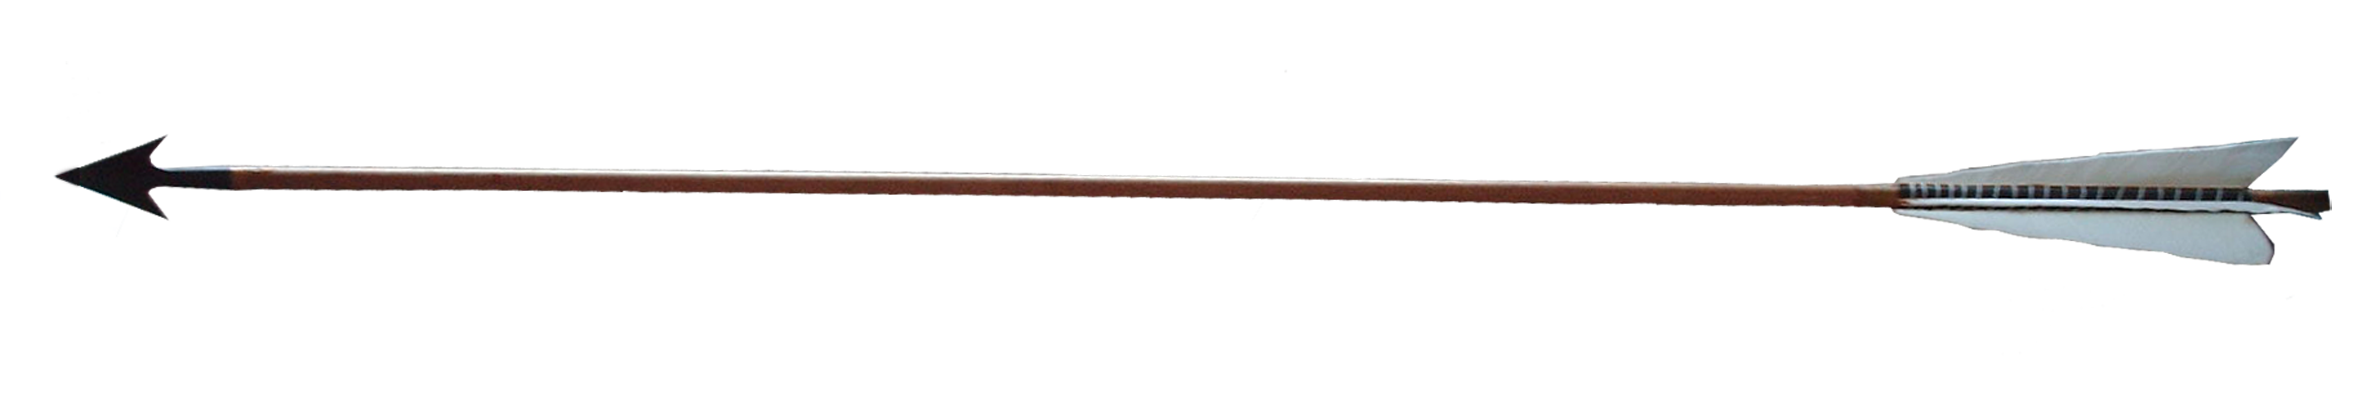
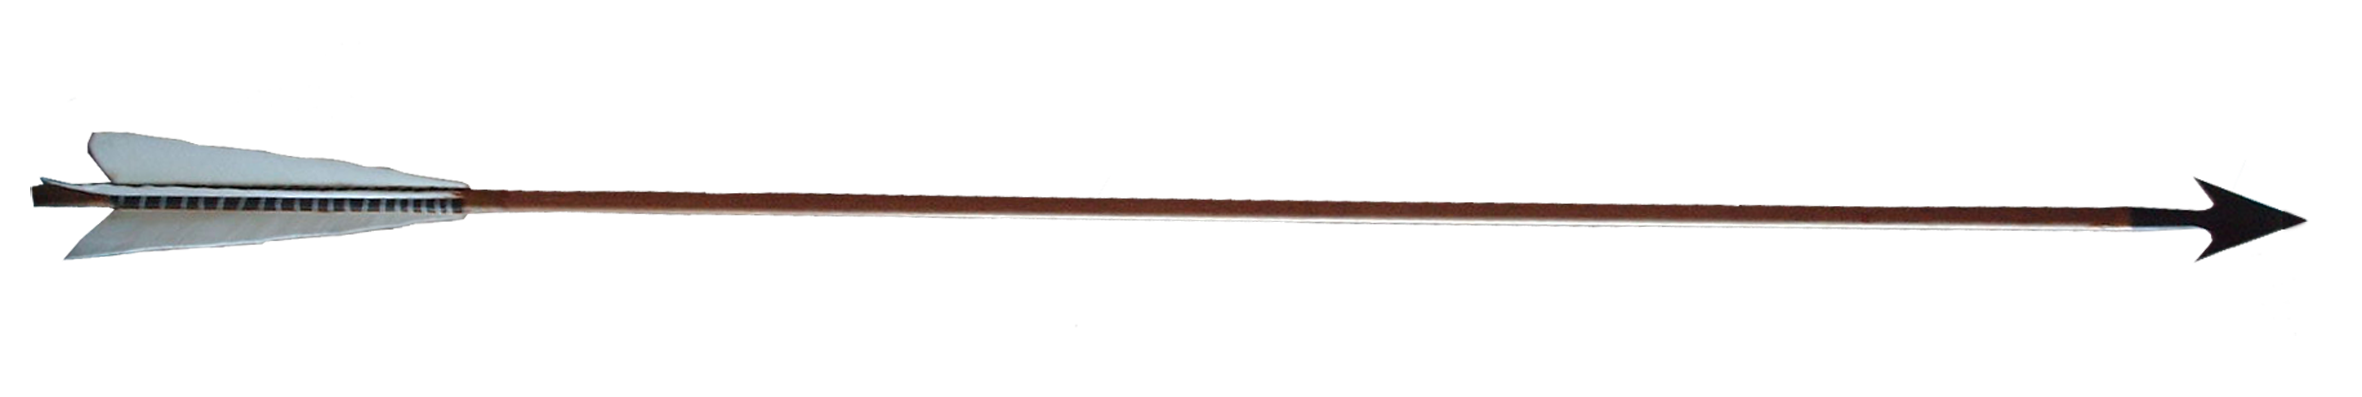
fixed scaling for background, treasure and arrow. working on powerups
Scaling for items fixed. Currently working on implementing medkit powerup

Changed region(s): [[0.0, 0.3325, 0.989, 0.665]]

diff --git a/MyWorld.java b/MyWorld.java
@@ -31,11 +31,7 @@ public class MyWorld extends World
         GreenfootImage bg = new GreenfootImage("images/background.jpg");
         bg.scale(getWidth(), getHeight());
         setBackground(bg);
-        
-        getX(100);
-        getY(350);
-        
-        
+              
         spawnPlayer();
         
         scoreLabel = new Label(0,80);
@@ -48,20 +44,17 @@ public class MyWorld extends World
         
         Treasure treasure = new Treasure();
         addObject(treasure,15, 200);
+        
+        if(score%5 == 0){
+            spawnMedkit();
+        }
     }
     
-    public int getX(int theX){
-        x = theX;
-        return x;
-    }
-    public int getY(int theY){
-        y=theY;
-        return y;
-    }
-    public void spawnPlayer(){ 
+    public void spawnPlayer(){
         Player player = new Player();
-        addObject(player, x,y);
+        addObject(player, 100, 350);
     }
+    
     public void spawnSnake(){
         int x = 600;
         int y = Greenfoot.getRandomNumber(350);
@@ -69,6 +62,11 @@ public class MyWorld extends World
         Snake snake = new Snake();
         snake.setSpeed(level);
         addObject(snake,x,y);
+    }
+    
+    public void spawnMedkit(){
+        Medkit medkit = new Medkit();
+        addObject(medkit, Greenfoot.getRandomNumber(450), Greenfoot.getRandomNumber(180)); 
     }
     
     public void increaseScore(){

diff --git a/Medkit.java b/Medkit.java
@@ -1,0 +1,23 @@
+import greenfoot.*;  // (World, Actor, GreenfootImage, Greenfoot and MouseInfo)
+
+/**
+ * Write a description of class Medkit here.
+ * 
+ * @author (your name) 
+ * @version (a version number or a date)
+ */
+public class Medkit extends Actor
+{
+    /**
+     * Act - do whatever the Medkit wants to do. This method is called whenever
+     * the 'Act' or 'Run' button gets pressed in the environment.
+     */
+    public void act()
+    {
+        if(isTouching(Player.class)){
+            MyWorld world = (MyWorld) getWorld();
+            world.lives += 1; 
+            world.removeObject(this);
+        }
+    }
+}

diff --git a/Treasure.java b/Treasure.java
@@ -12,6 +12,12 @@ public class Treasure extends Actor
      * Act - do whatever the Treasure wants to do. This method is called whenever
      * the 'Act' or 'Run' button gets pressed in the environment.
      */
+    
+    public Treasure(){
+        GreenfootImage treasureImg = new GreenfootImage("images/treasure.png");
+        treasureImg.scale(75, 75);
+        setImage(treasureImg);
+    }
     public void act()
     {
         // Add your action code here.

diff --git a/Bullet.java b/Bullet.java
@@ -12,6 +12,11 @@ public class Bullet extends Actor
      * Act - do whatever the Bullet wants to do. This method is called whenever
      * the 'Act' or 'Run' button gets pressed in the environment.
      */
+    public Bullet(){
+        GreenfootImage arrow = new GreenfootImage("images/arrow.png");
+        arrow.scale(90, 25);
+        setImage(arrow);
+    }
     public void act()
     {
         // Add your action code here.
